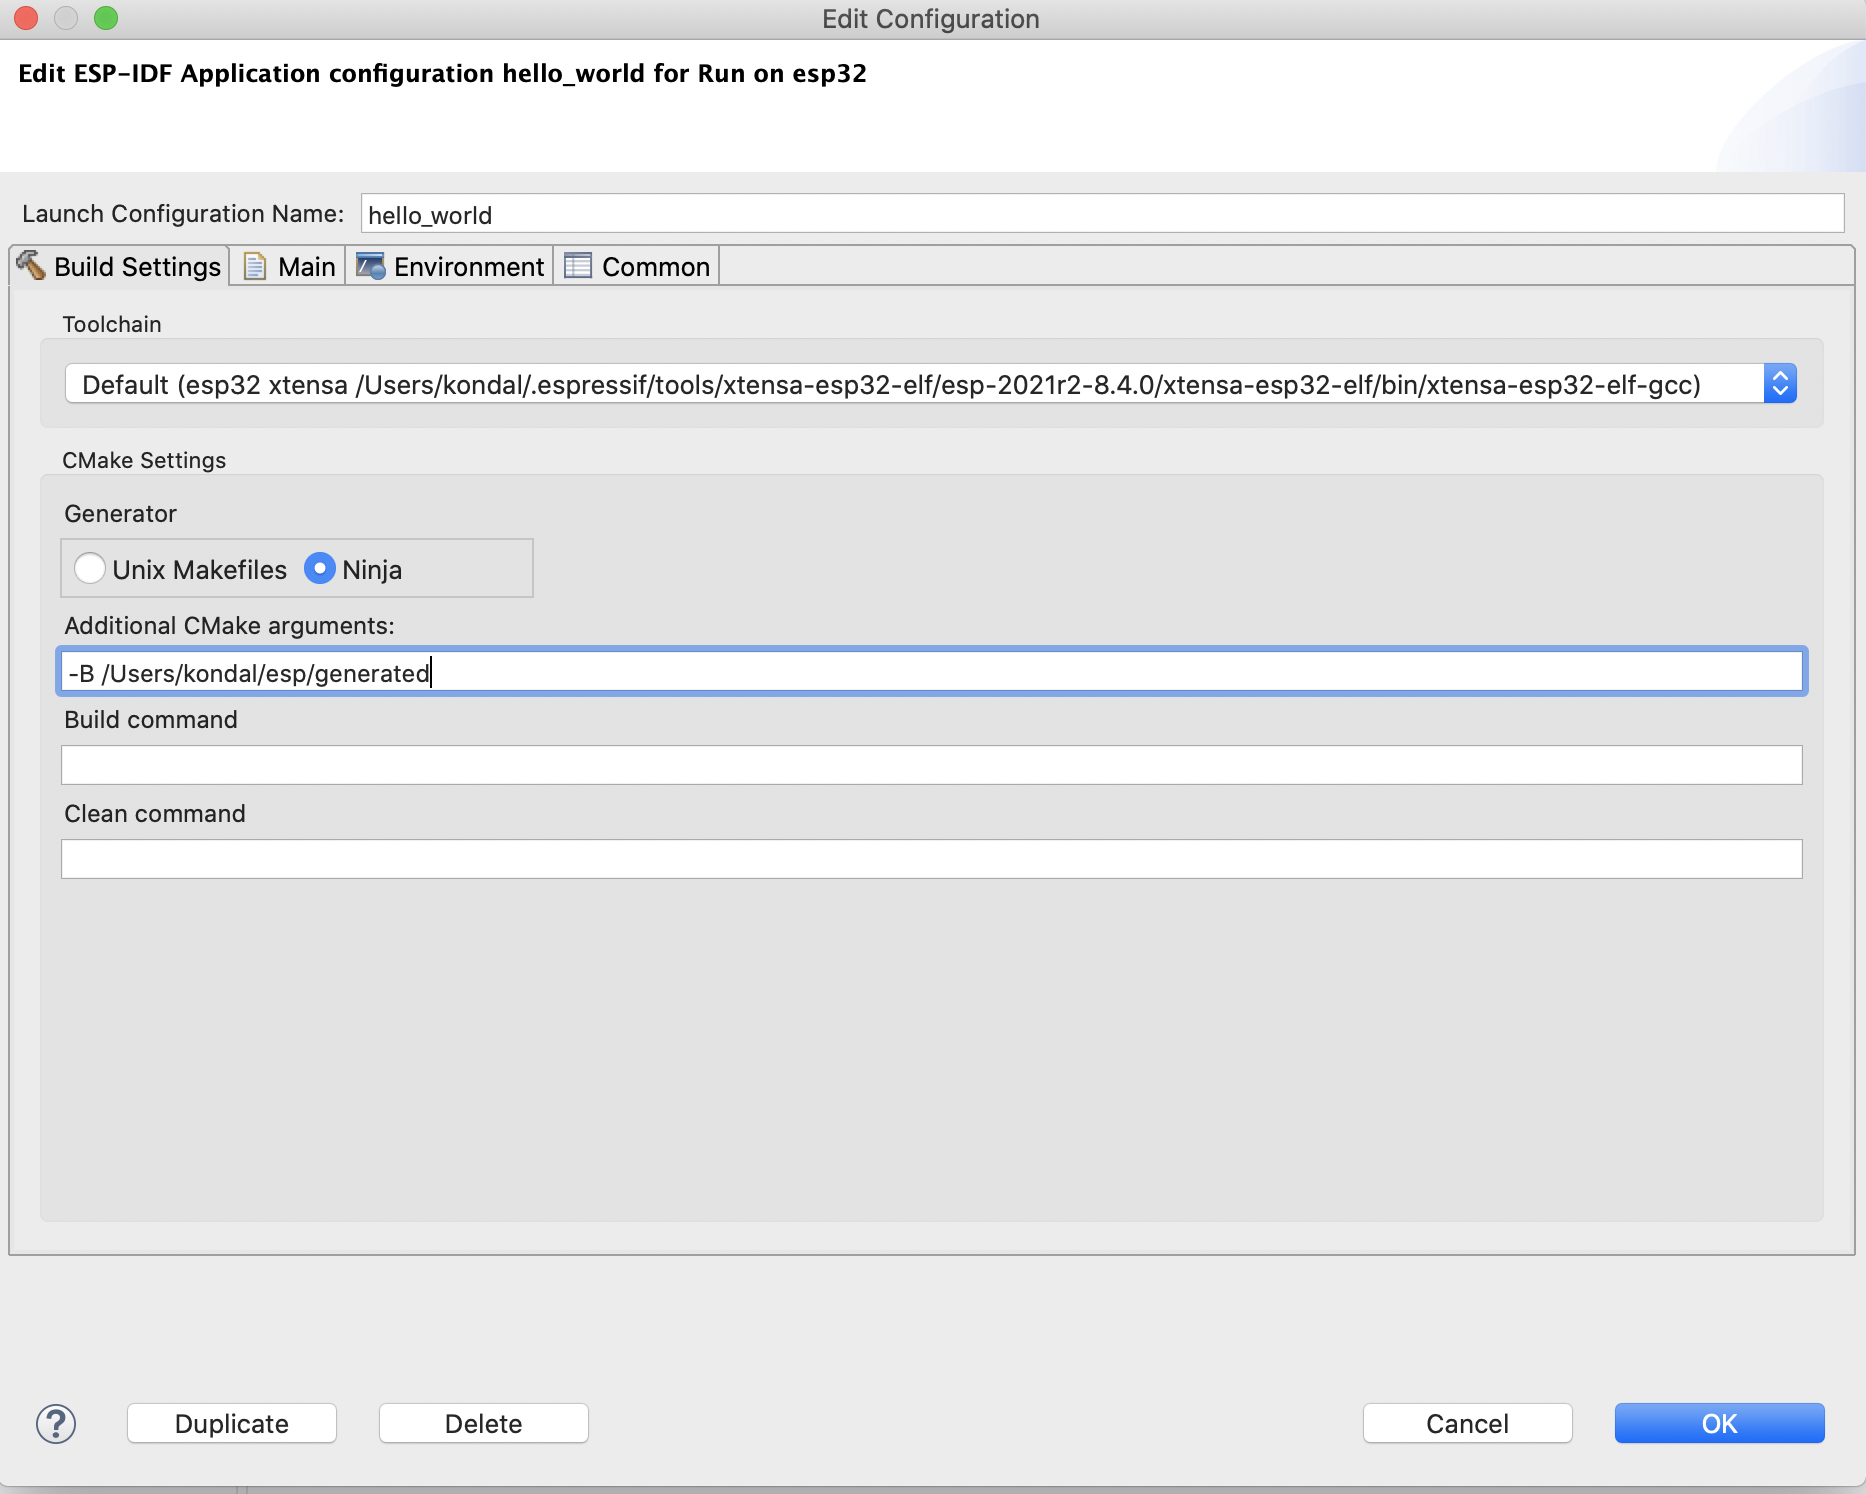
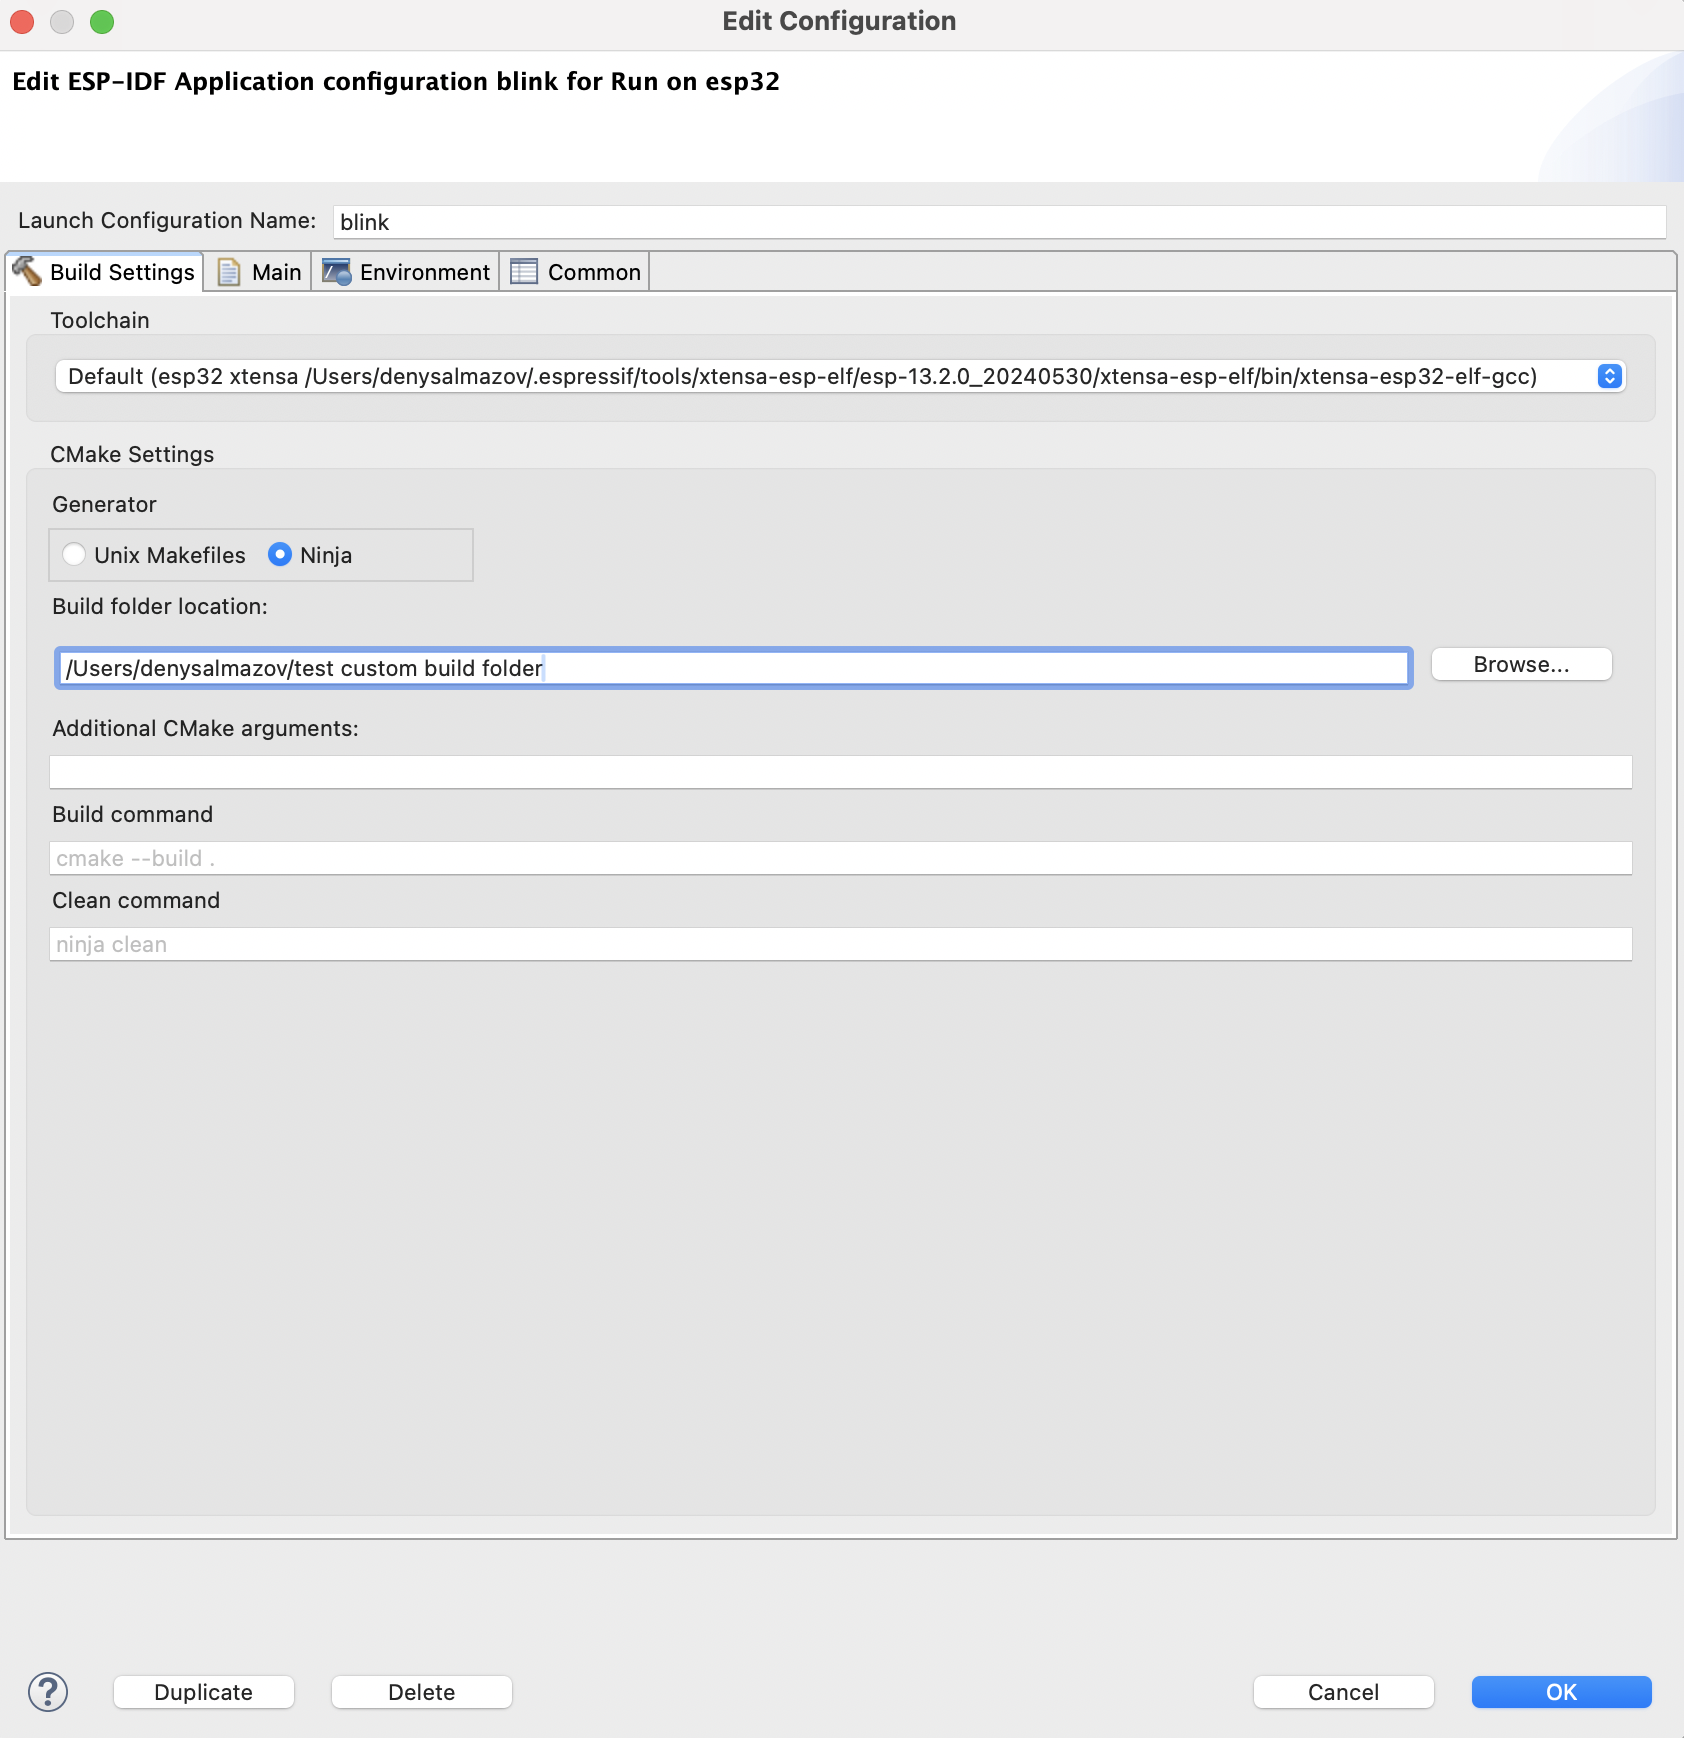
feat: updated doc and screenshot

Changed region(s): [[0.0, 0.1232, 1.0, 0.8929], [0.0, 0.9237, 1.0, 1.0], [0.0, 0.0, 1.0, 0.0616]]

diff --git a/docs/en/buildproject.rst b/docs/en/buildproject.rst
@@ -26,7 +26,7 @@ The IDE allows configuring a custom build directory for the project:
 
 1. Select a project and click on the ``Edit`` button for the launch configuration in the top toolbar to open the ``Edit Configuration`` window.
 2. Navigate to the ``Build Settings`` tab.
-3. In the ``Additional CMake Arguments`` section, provide a custom build directory by adding arguments ``-B <custom build path>`` with an absolute path. The customized build directory path can be within the project or in any other location in the file system. For example: ``-B /Users/myUser/esp/generated``.
+3. In the ``Build folder location`` section, provide a custom build directory. The customized build directory path can be within the project or in any other location in the file system.
 4. Click on ``Ok`` and build the project.
 
 .. note::
